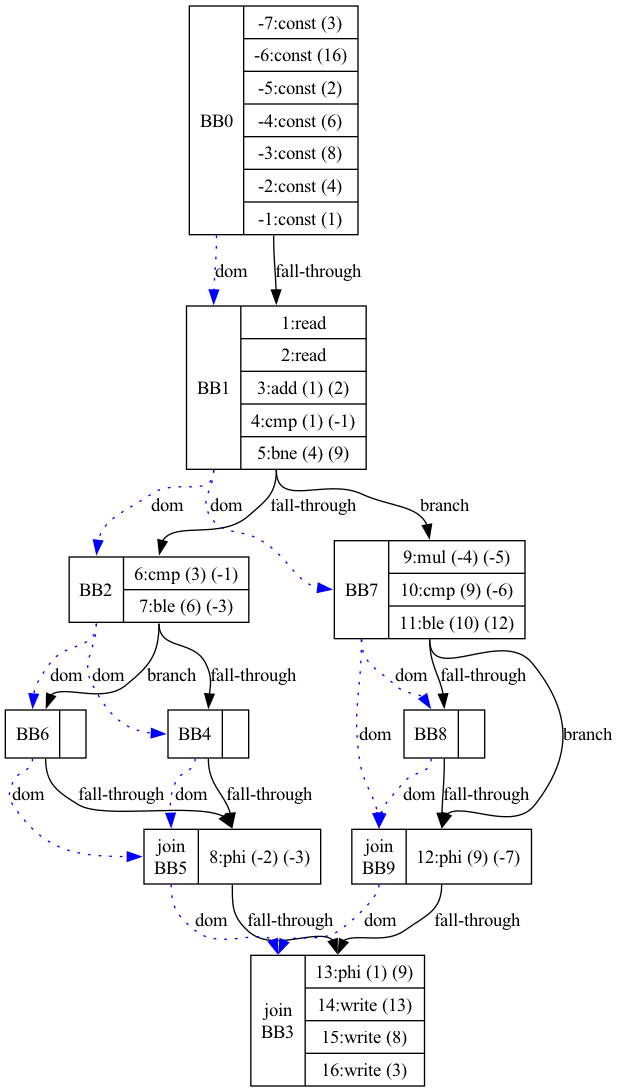
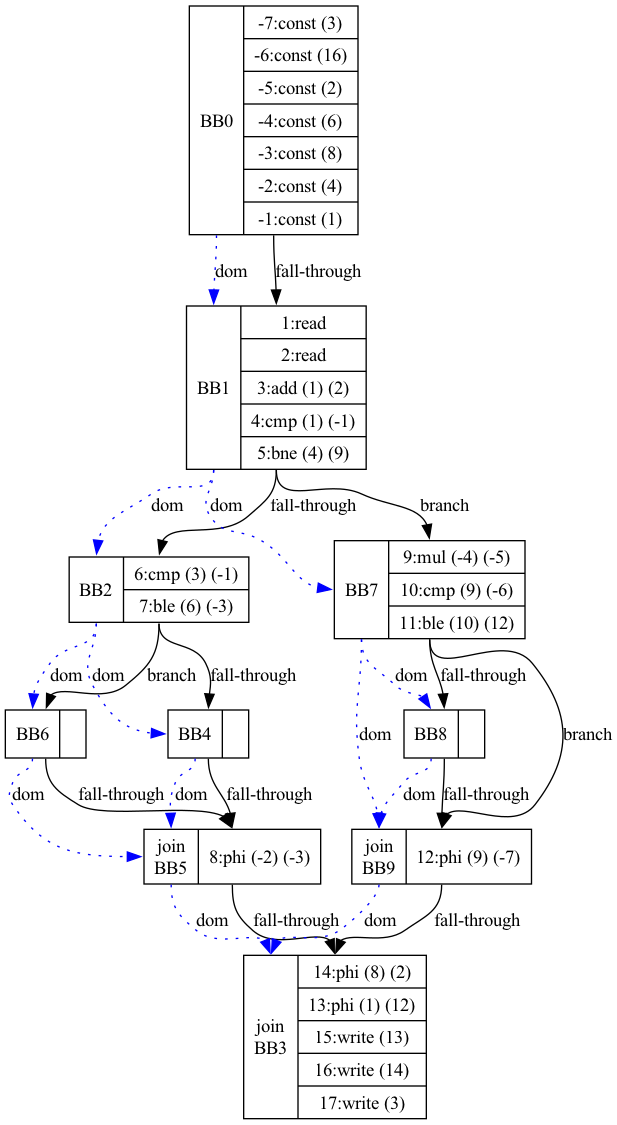
resolved - phi-error not propagatingDown() successfully, overwriting some children, after [if] && [else] [statSeq()] for [join_blk]; [nested_if1.ty] is valid; todo - start UDF created [p_funcDecl(noRet)], FIRST parse funcDecl, then figure out how to deal with SSA when UDF is called in [main_blk]; no

diff --git a/src/Parser.cpp b/src/Parser.cpp
@@ -1067,7 +1067,7 @@ SSA* Parser::p2_ifStatement() {
     // 11.04.2024::6:57;
     // if (!hasChild) {
         // join_blk->parent = then_blk; // [10.24.2024]: already did this earlier
-    join_blk->parent2 = else_blk;
+    // join_blk->parent2 = else_blk; // [11.20.2024]: removed this since it'll reset a move if we havae subsequent nested during [p2_statSeq()] in this branch
     if (then_blk->child == nullptr) { // [11.20.2024]: added condition to prevent accidental replacment of a nested blk
         then_blk->child = join_blk;
     }
@@ -1077,15 +1077,19 @@ SSA* Parser::p2_ifStatement() {
 
     this->currBB = join_blk;
 
+    // [11.20.2024]: here we make the assumption that [join_blk] has both [parent] && [parent2] ptr if we have (then) && (else) condition
+    BasicBlock *then_blk_last = join_blk->parent;
+    BasicBlock *else_blk_last = join_blk->parent2;
+
     std::unordered_set<int> vars = {};
 
     for (const auto &p : if_parent->varVals) {
         vars.insert(p.first);
     }
-    for (const auto &p : then_blk->varVals) {
+    for (const auto &p : then_blk_last->varVals) {
         vars.insert(p.first);
     }
-    for (const auto &p : else_blk->varVals) {
+    for (const auto &p : else_blk_last->varVals) {
         vars.insert(p.first);
     }
 
@@ -1093,29 +1097,39 @@ SSA* Parser::p2_ifStatement() {
     #ifdef DEBUG
         std::cout << "then_blk: " << std::endl << then_blk->toString() << std::endl;
         std::cout << "else_blk: " << std::endl << else_blk->toString() << std::endl;
+
+        std::cout << "then_blk_last: " << std::endl << then_blk_last->toString() << std::endl;
+        std::cout << "else_blk_last: " << std::endl << else_blk_last->toString() << std::endl;
     #endif
+    
     for (const auto &p : vars) {
-        if (then_blk->varVals.find(p) == then_blk->varVals.end()) {
+        #ifdef DEBUG
+            std::cout << "current ident: [" << SymbolTable::symbol_table.at(p) << "]" << std::endl;
+        #endif
+        if (then_blk_last->varVals.find(p) == then_blk_last->varVals.end()) {
             BasicBlock *prevCurr = this->currBB;
-            this->currBB = then_blk;
+            this->currBB = then_blk_last;
             this->handleUninitVar(p);
             this->currBB = prevCurr;
         }
 
-        if (else_blk->varVals.find(p) == else_blk->varVals.end()) {
+        if (else_blk_last->varVals.find(p) == else_blk_last->varVals.end()) {
             BasicBlock *prevCurr = this->currBB;
-            this->currBB = else_blk;
+            this->currBB = else_blk_last;
             this->handleUninitVar(p);
             this->currBB = prevCurr;
         }
         
         // if a ident from [if_parent] exists in [then_blk] with a different value, we need a phi
-        if (then_blk->varVals.at(p) != else_blk->varVals.at(p)) {
+        if (then_blk_last->varVals.at(p) != else_blk_last->varVals.at(p)) {
+            SSA *then_phi = BasicBlock::ssa_table.at(then_blk_last->varVals.at(p));
+            SSA *else_phi = BasicBlock::ssa_table.at(else_blk_last->varVals.at(p));
+            
             #ifdef DEBUG
-                std::cout << "then_blk's ident val != else_blk's ident val; consolidating to one..." << std::endl;
+                std::cout << "then_blk_last's ident val != else_blk_last's ident val; consolidating to one..." << std::endl;
+                std::cout << "then_phi: " << then_phi->toString() << std::endl;
+                std::cout << "else_phi: " << else_phi->toString() << std::endl;
             #endif
-            SSA *then_phi = BasicBlock::ssa_table.at(then_blk->varVals.at(p));
-            SSA *else_phi = BasicBlock::ssa_table.at(else_blk->varVals.at(p));
             
             SSA *phi_instr = nullptr;
             int phi_table_int;
@@ -1191,7 +1205,7 @@ SSA* Parser::p2_ifStatement() {
 
                 phi_instr->updateDebugNum(); // [11.18.2024]: added to ensure debugNum stays up to date (since removal allows for those previous values to be used for debug num)
             } else {
-                phi_instr = this->addSSA1(6, BasicBlock::ssa_table.at(then_blk->varVals.at(p)), BasicBlock::ssa_table.at(else_blk->varVals.at(p)), true);
+                phi_instr = this->addSSA1(6, BasicBlock::ssa_table.at(then_blk_last->varVals.at(p)), BasicBlock::ssa_table.at(else_blk_last->varVals.at(p)), true);
                 phi_table_int = this->add_SSA_table(phi_instr);
                 this->propagateDown(this->currBB, p, else_phi, phi_table_int, true);
             }

diff --git a/src/BasicBlock.hpp b/src/BasicBlock.hpp
@@ -168,7 +168,7 @@ public:
 
     BasicBlock *parent, *parent2;
     BasicBlock *child, *child2;
-    std::unordered_map<int, int> varVals; // [variable (sym_table val) : value]
+    std::unordered_map<int, int> varVals; // [key (sym_table ident)][variable (sym_table val) : value]
     // an ssa instruction: std::vector<int>
     // [#: debugging] [operation] [operand(s)]
     std::vector<Node*> newInstrs;
